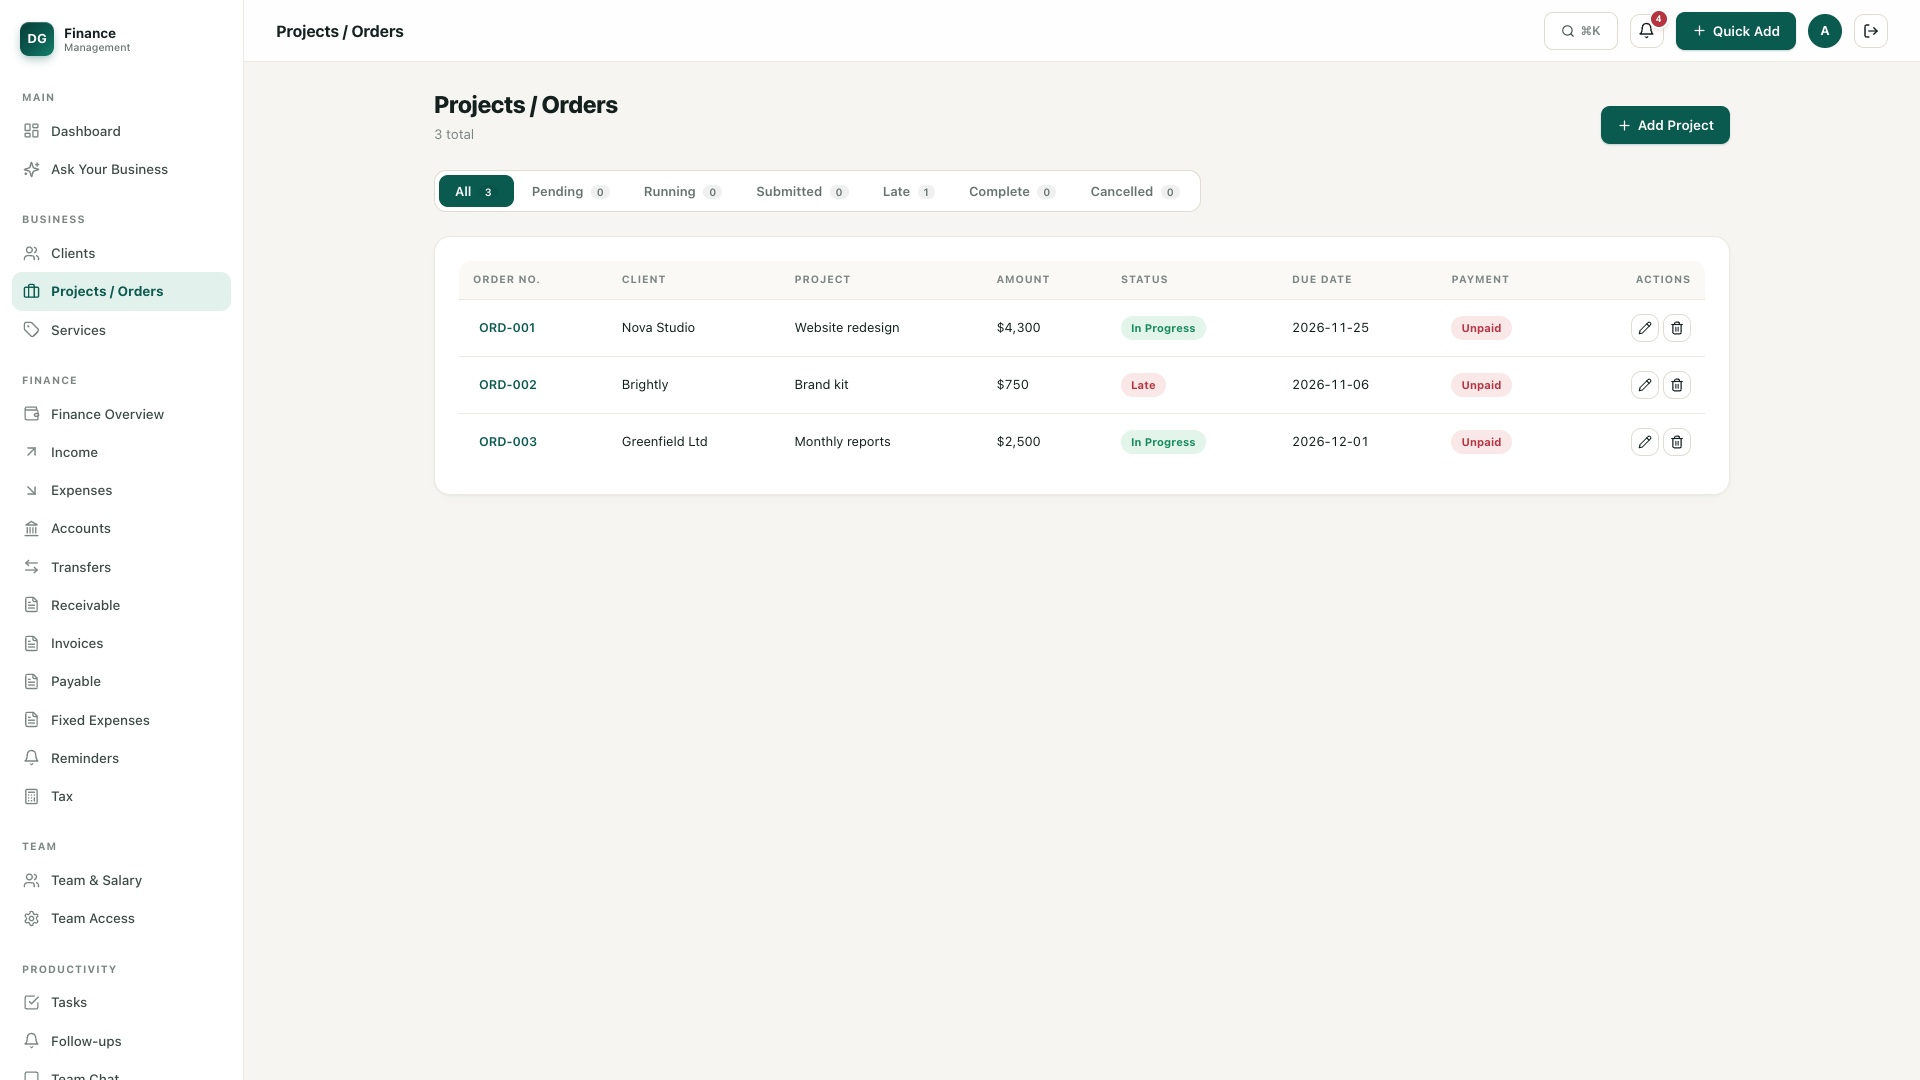
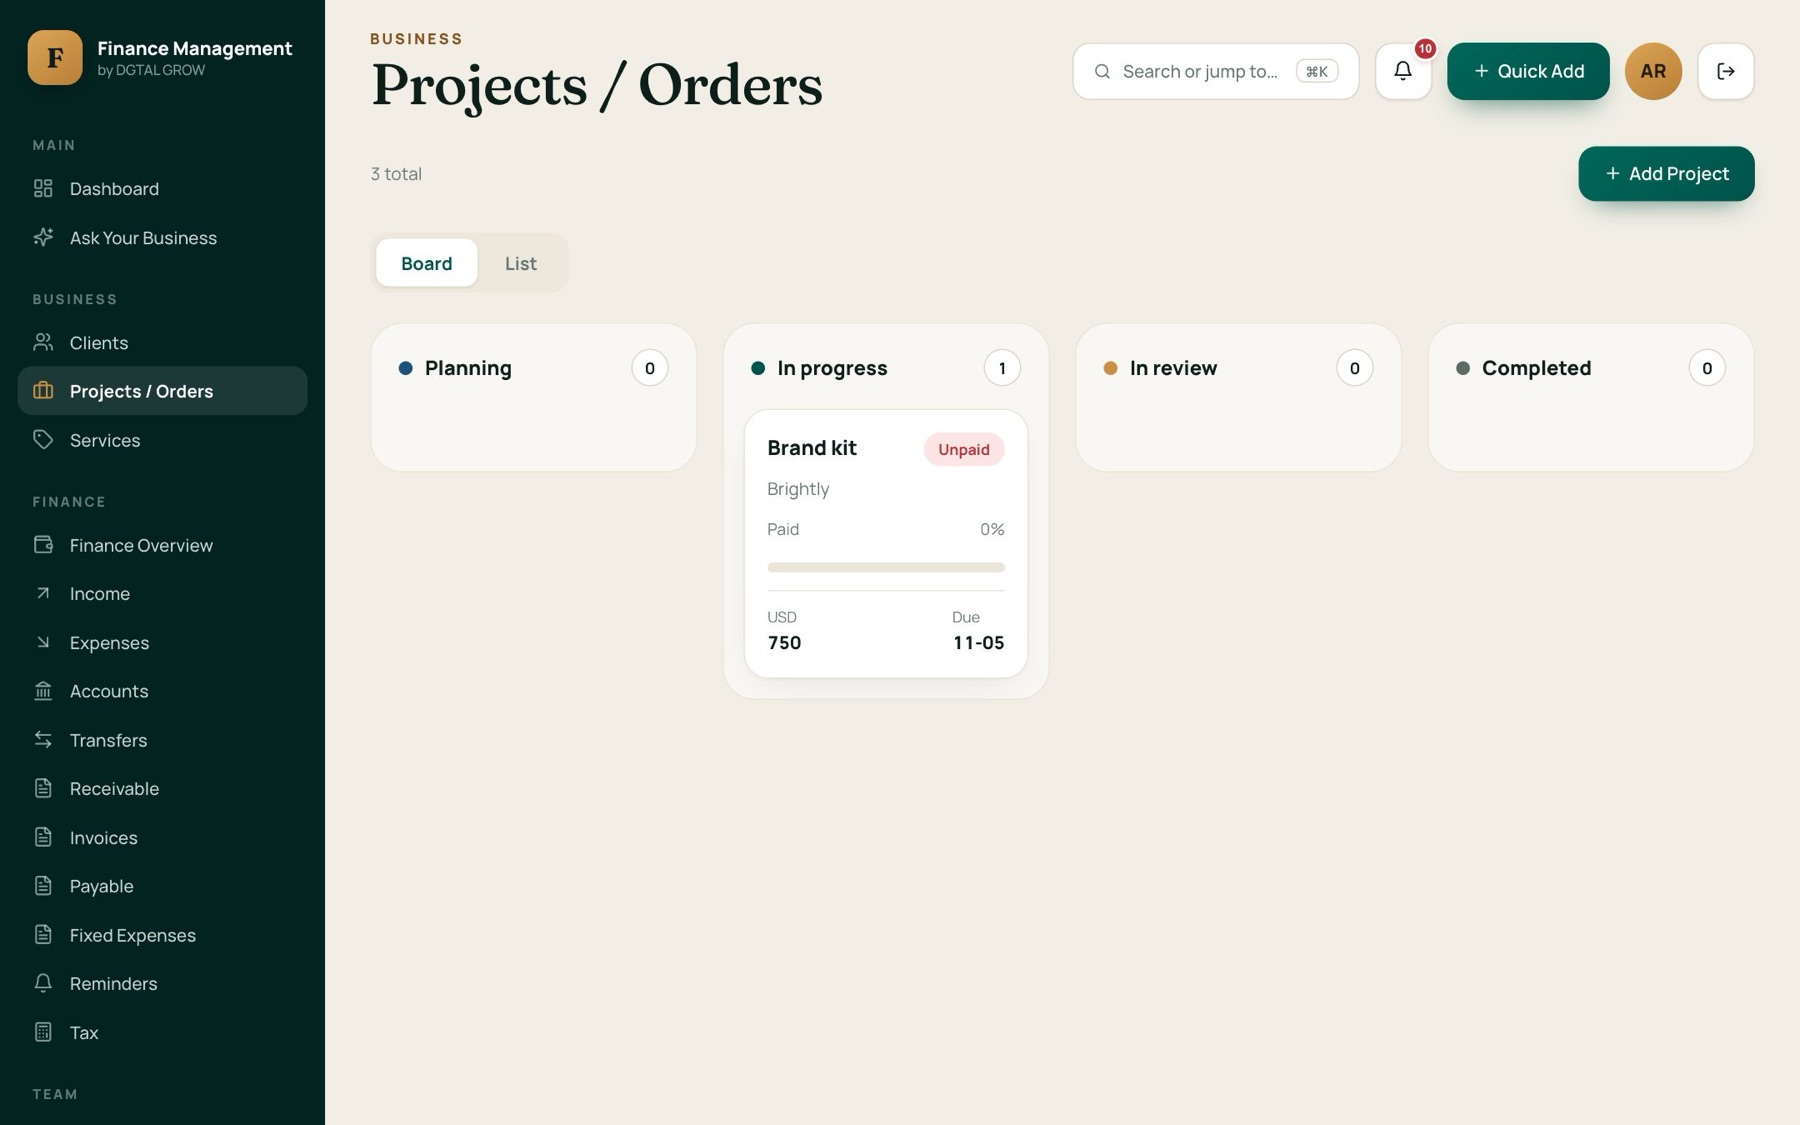
Real desktop screenshots of every section, benefit-focused README

diff --git a/README.md b/README.md
@@ -1,13 +1,13 @@
 <div align="center">
 
-<img src="cover.jpg" alt="Dgtal Finance Manager" width="100%">
+<img src="cover.jpg" alt="Dgtal Finance Manager dashboard" width="100%">
 
 # Dgtal Finance Manager
 
-**One calm workspace for invoices, income and expenses, clients, projects, team and tax.**
-Built for freelancers, agencies and small businesses.
+**See your whole business in one place: money, invoices, clients, projects, tasks, team and deadlines.**
+A web app for freelancers, agencies and small businesses.
 
-[**Try the live demo**](https://finance.dgtalgrow.com/) &nbsp;·&nbsp; [Website](https://management.dgtalgrow.com/) &nbsp;·&nbsp; [Android app](../../releases/latest) &nbsp;·&nbsp; [Product Hunt](https://www.producthunt.com/products/dgtal-finance-manager) &nbsp;·&nbsp; [G2](https://www.g2.com/products/dgtal-finance-manager/reviews)
+[**Try the live demo**](https://finance.dgtalgrow.com/) &nbsp;·&nbsp; [Website](https://management.dgtalgrow.com/) &nbsp;·&nbsp; [Product Hunt](https://www.producthunt.com/products/dgtal-finance-manager) &nbsp;·&nbsp; [G2](https://www.g2.com/products/dgtal-finance-manager/reviews)
 
 </div>
 
@@ -25,68 +25,114 @@ Open **[finance.dgtalgrow.com](https://finance.dgtalgrow.com/)** and press one o
 | **Finance** | Invoices, income, expenses, payables and receivables |
 | **Team Member** | Sees clients and projects, works on tasks |
 | **Viewer** | Read-only |
-| **Client portal** | What your client sees: shared projects, updates and invoices |
+| **Client portal** | What your client sees: the projects and invoices you share with them |
 
-> The demo is a **shared workspace** with sample data. Everyone sees the same data, so please do not type any real or personal information into it. Account and billing changes are switched off in demo sessions.
-> The host shows a short security check ("One moment, please...") for a few seconds on the first visit.
+> The demo is a **shared workspace** with sample data. Everyone sees the same data, so please do not type any real or personal information into it. Account and billing changes are switched off in demo sessions. The host shows a short security check ("One moment, please...") for a few seconds on the first visit.
 
-## Screenshots
+---
 
-| | |
-|---|---|
-| ![Dashboard](screenshot-01-dashboard.jpg) | ![Income and expenses](screenshot-02-income-expenses.jpg) |
-| **Dashboard**: balances, cash flow, "where is my money?" | **Income and expenses** across accounts |
-| ![Invoices](screenshot-03-invoices.jpg) | ![Clients](screenshot-04-clients.jpg) |
-| **Invoices** with status and PDF export | **Clients** and receivables |
-| ![Finance overview](screenshot-05-finance-overview.jpg) | ![Projects](screenshot-06-projects.jpg) |
-| **Finance overview** | **Projects and orders** |
+## What you get, section by section
 
-**Calendar** of due dates
+### 1. Dashboard: know where you stand in ten seconds
+![Dashboard](screenshot-01-dashboard.jpg)
 
+Your total balance across every account, this month's income and expenses, net cash flow, what clients still owe you, what you owe, your estimated tax and active projects. An income-vs-expense chart and a recent-activity list show how the month is going.
+
+**Why it helps:** no more opening the bank app, a spreadsheet and your invoices just to answer "how are we doing?".
+
+### 2. Ask Your Business: questions in plain language
+![Ask Your Business](screenshot-08-ask-your-business.jpg)
+
+Ask "Which clients owe me money?", "What are my biggest expenses?" or "Which invoices are overdue?" and get an answer from your own records. Answers come only from your workspace, and your data is not shared outside your account.
+
+**Why it helps:** you get answers without building reports or learning filters.
+
+### 3. Accounts: every account in one view
+![Accounts](screenshot-09-accounts.jpg)
+
+Bank, cash and payment-gateway accounts with their balances and one net-worth total.
+
+**Why it helps:** you see how much money you really have, and where it sits.
+
+### 4. Invoices: create, send and download as PDF
+![Invoices](screenshot-03-invoices.jpg)
+
+Invoice statuses (draft, sent, overdue, paid) with totals at the top. Select an invoice to preview it, then **Download PDF** or **Send**.
+
+**Why it helps:** professional invoices in minutes, and you always know which ones are still unpaid.
+
+### 5. Receivable: chase what you are owed
+![Receivable](screenshot-10-receivable.jpg)
+
+Total outstanding split into on time and overdue, with days late per item and a **Record payment** button for part or full payments.
+
+**Why it helps:** late payments stop hiding in your inbox.
+
+### 6. Fixed expenses and salaries: never miss a due date
+![Fixed expenses](screenshot-11-fixed-expenses.jpg)
+
+Recurring bills and team salaries show the next due date and a countdown. The **Mark paid** button opens five days before the due date, and a reminder popup appears each morning and evening for items that are due soon.
+
+**Why it helps:** rent, hosting and salaries get paid on time, without a separate reminder app.
+
+### 7. Clients: who pays, who owes, who is a lead
+![Clients](screenshot-04-clients.jpg)
+
+Each client card shows lifetime revenue, the outstanding amount, how many projects are active and the status (Active, Lead, Inactive).
+
+**Why it helps:** you can see your best clients and your slow payers at a glance.
+
+### 8. Projects and orders: a board for every job
+![Projects](screenshot-06-projects.jpg)
+
+A board (Planning, In progress, In review, Completed) or a list, with the client, paid percentage and due date on every card.
+
+**Why it helps:** you see which jobs are moving and which are paid.
+
+### 9. Tasks: keep the team on the same page
+![Tasks](screenshot-12-tasks.jpg)
+
+A task board by status or by team member, with priorities and filters such as My Tasks, Overdue, Due Today and High Priority.
+
+**Why it helps:** nothing falls through the cracks, and everyone knows what is next.
+
+### 10. Calendar: every deadline in one place
 ![Calendar](screenshot-07-calendar.jpg)
 
-All screenshots use sample data.
+Project deadlines, tasks, payables, receivables, invoices, follow-ups, reminders, upcoming fixed expenses and tax dates appear on one calendar, pulled from your existing data. There is no separate calendar to maintain.
 
-## What it does
+**Why it helps:** one look shows what needs you today and what is coming up.
 
-- **Dashboard**: total balance, income vs expense, net cash flow, spending by account.
-- **Money**: accounts, income, expenses, transfers, categories, multi-currency, fixed expenses and recurring items.
-- **Fixed bills and salaries with due dates**: a live countdown, a "Mark paid" button that unlocks five days before the due date, and a reminder popup each morning and evening.
-- **Invoices**: create, send, mark paid or overdue, record payments, branded **PDF** export, recurring invoices.
-- **Clients, projects and services**: receivables, payables, follow-ups and project status.
-- **Tax estimator**: country-aware (Bangladesh built in, other countries through rule sets), payments and settings.
-- **Team**: members, salary tracking, roles and permissions, invitations, tasks, team chat.
-- **Client portal**: clients sign in with a one-time email code and see only the projects and invoices shared with them.
-- **Ask Your Business**: an AI assistant that answers questions about your own data (an offline mock provider is built in).
-- **Recycle bin** for every delete, saved views, command palette, reports, notifications and a calendar.
-- **Plans and trial**: Starter, Professional and Business plan limits with a 14-day trial.
+### 11. Team access: give people exactly the access they need
+![Team access](screenshot-13-team-access.jpg)
 
-## Roles and permissions
+Choose which team members can log in and exactly what each role can see and do (Admin, Manager, Finance, Team Member, Viewer). A recent login activity list shows who signed in.
 
-Seven built-in views of the same workspace: Owner, Admin, Manager, Finance, Project Manager, Team Member and Viewer. Permissions are checked on the server for every action, and the owner can adjust them per team member.
+**Why it helps:** your team works in the same system without seeing money they should not see.
+
+---
+
+## Also included
+
+- **Client portal:** clients sign in with a one-time email code and see only the projects and invoices you share with them.
+- **Income, expenses, transfers and categories**, with multi-currency support.
+- **Tax estimator** with country rules (Bangladesh built in) and tax payment records.
+- **Team salaries** that flow into fixed expenses.
+- **Recycle bin** for every delete, saved views, a command palette, reports and notifications.
+- **Plans and trial:** Starter, Professional and Business limits with a 14-day trial.
 
 ## Built with
 
-Node.js and Express, PostgreSQL (plain SQL migrations, no ORM), React 18 with Vite 6, Socket.IO for team chat, pdfkit for invoices. Multi-tenant by design: every record belongs to a workspace and every query is scoped to it.
+Node.js and Express, PostgreSQL (plain SQL migrations, no ORM), React 18 with Vite 6, Socket.IO for team chat and pdfkit for invoices. It is multi-tenant: every record belongs to a workspace and every query is scoped to it.
 
-- Passwords hashed with bcrypt, email one-time codes, session cookies, rate limiting, Helmet security headers, parameterised SQL.
+- Passwords hashed with bcrypt, email one-time codes, session cookies, rate limiting, Helmet security headers and parameterised SQL.
 - A recycle-bin restore engine that only writes allow-listed tables and never overwrites existing rows.
-- 27 automated unit tests, CI with a database migration check, and an `npm audit` with no known vulnerabilities at the time of release.
+- 27 automated unit tests and a CI database migration check.
 - Deploys with Docker, on a VPS or on cPanel.
-
-## Android app
-
-A lightweight Android app that opens the web app full screen, with file upload and PDF download support.
-
-1. Download **`DgtalFinanceManager-1.1.0.apk`** from the [latest release](../../releases/latest).
-2. Open it on your phone and allow installation from this source when Android asks.
-3. Sign in or tap a demo button.
-
-The APK is signed by DGTAL GROW. It needs an internet connection because the app is the live web app.
 
 ## Source code
 
-This repository is a **showcase**: screenshots, feature overview, demo and the Android app. **The source code is not published here.** The full source (Node.js, React, PostgreSQL, Docker files, setup guide and tests) is offered as a licence through the Vibe96 marketplace, and I can also help you run it for your business. To get in touch, reach out through [management.dgtalgrow.com](https://management.dgtalgrow.com/).
+This repository is a **showcase**: screenshots, a feature overview and a live demo. **The source code is not published here.** The full source (Node.js, React, PostgreSQL, Docker files, setup guide and tests) is offered as a licence through the Vibe96 marketplace, and I can also help you run it for your business. To get in touch, reach out through [management.dgtalgrow.com](https://management.dgtalgrow.com/).
 
 ## Links
 
@@ -100,4 +146,4 @@ This repository is a **showcase**: screenshots, feature overview, demo and the A
 
 ---
 
-<sub>&copy; DGTAL GROW. All rights reserved. The name, logo, screenshots and text in this repository may not be reused without permission. The Android app is provided as is.</sub>
+<sub>&copy; DGTAL GROW. All rights reserved. The name, logo, screenshots and text in this repository may not be reused without permission. Screenshots show sample data from the shared demo workspace.</sub>
